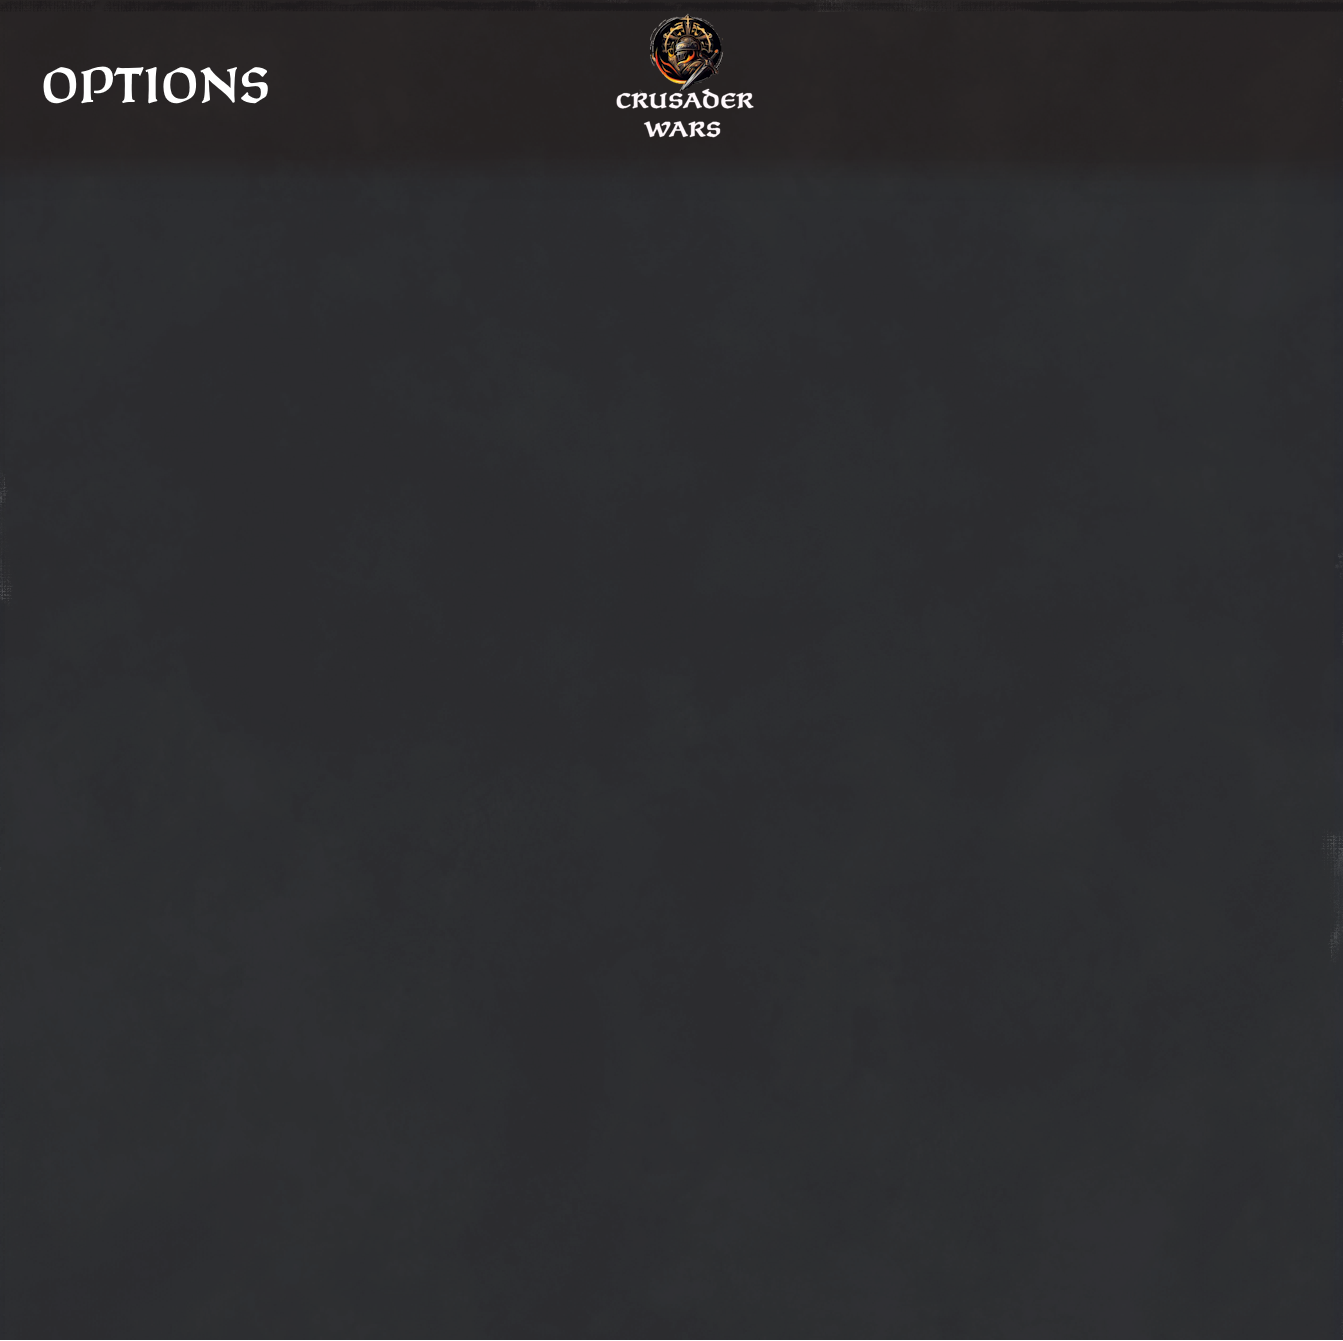
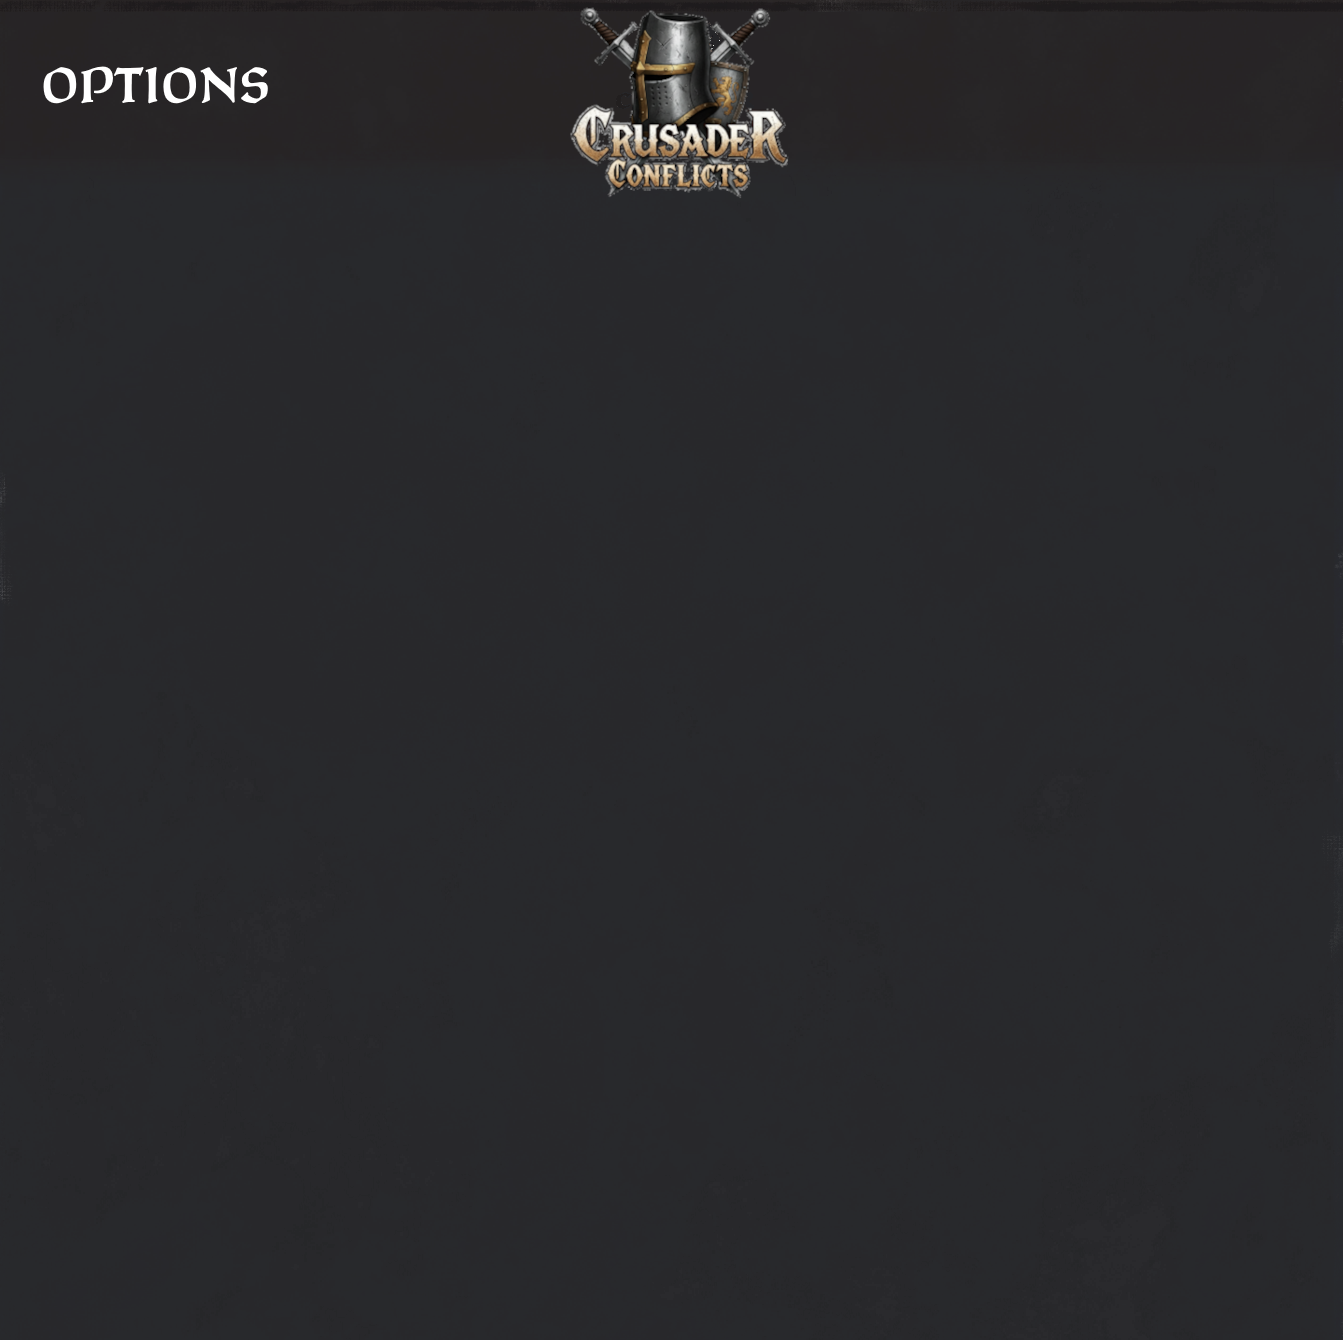
cw=30: rebranded some things to crusader conflicts

Changed region(s): [[0.4274, 0.0, 0.58, 0.1529]]

diff --git a/CrusaderWars/client/Options/Options.cs b/CrusaderWars/client/Options/Options.cs
@@ -303,7 +303,7 @@ namespace CrusaderWars
             catch (Exception ex)
             {
                 Program.Logger.Log(ex);
-                MessageBox.Show("Error reading game options. Restart the mod and try again", "Crusader Wars: Data Error",
+                MessageBox.Show("Error reading game options. Restart the mod and try again", "Conflicts Conflicts: Data Error",
                                 MessageBoxButtons.OK, MessageBoxIcon.Error, MessageBoxDefaultButton.Button1, MessageBoxOptions.DefaultDesktopOnly);
                 Application.Exit();
             }
@@ -455,7 +455,7 @@ namespace CrusaderWars
             catch (Exception ex)
             {
                 Program.Logger.Log(ex);
-                MessageBox.Show("Error setting options UI. Some options may not display correctly.", "Crusader Wars: UI Error",
+                MessageBox.Show("Error setting options UI. Some options may not display correctly.", "Conflicts Conflicts: UI Error",
                                 MessageBoxButtons.OK, MessageBoxIcon.Error, MessageBoxDefaultButton.Button1, MessageBoxOptions.DefaultDesktopOnly);
             }
         }
@@ -576,7 +576,7 @@ namespace CrusaderWars
             catch (Exception ex)
             {
                 Program.Logger.Log(ex);
-                MessageBox.Show("Error saving game options. Changes may not be saved.", "Crusader Wars: Save Error",
+                MessageBox.Show("Error saving game options. Changes may not be saved.", "Conflicts Conflicts: Save Error",
                                 MessageBoxButtons.OK, MessageBoxIcon.Error, MessageBoxDefaultButton.Button1, MessageBoxOptions.DefaultDesktopOnly);
             }
         }
@@ -689,7 +689,7 @@ namespace CrusaderWars
             }
             catch 
             {
-                MessageBox.Show("Error setting game paths. Restart the mod and try again", "Crusader Wars: Data Error",
+                MessageBox.Show("Error setting game paths. Restart the mod and try again", "Conflicts Conflicts: Data Error",
                                 MessageBoxButtons.OK, MessageBoxIcon.Error, MessageBoxDefaultButton.Button1, MessageBoxOptions.DefaultDesktopOnly);
                 Application.Exit();
             }
@@ -722,7 +722,7 @@ namespace CrusaderWars
             }
             catch 
             {
-                MessageBox.Show("Error reading game paths. Restart the mod and try again", "Crusader Wars: Data Error",
+                MessageBox.Show("Error reading game paths. Restart the mod and try again", "Conflicts Conflicts: Data Error",
                                 MessageBoxButtons.OK, MessageBoxIcon.Error, MessageBoxDefaultButton.Button1, MessageBoxOptions.DefaultDesktopOnly);
                 Application.Exit();
             }
@@ -934,7 +934,7 @@ namespace CrusaderWars
                             }
                             else
                             {
-                                MessageBox.Show($"Mods.xml was not found in {mapper}", "Crusader Wars: Crusader Wars: Unit Mappers Error",
+                                MessageBox.Show($"Mods.xml was not found in {mapper}", "Conflicts Conflicts: Conflicts Conflicts: Unit Mappers Error",
                                 MessageBoxButtons.OK, MessageBoxIcon.Error, MessageBoxDefaultButton.Button1, MessageBoxOptions.DefaultDesktopOnly);
                             }
                             break;
@@ -1064,7 +1064,7 @@ namespace CrusaderWars
                     }
                     errorMessage += "\nPlease adjust the values in the 'Cmdr/Knights' tab.";
 
-                    MessageBox.Show(errorMessage, "Crusader Wars: Configuration Error",
+                    MessageBox.Show(errorMessage, "Conflicts Conflicts: Configuration Error",
                                     MessageBoxButtons.OK, MessageBoxIcon.Error);
 
                     // Switch to the Cmdr/Knights tab to show the user where the error is

diff --git a/CrusaderWars/data/attila_settings/AttilaPreferences.cs b/CrusaderWars/data/attila_settings/AttilaPreferences.cs
@@ -20,11 +20,11 @@ namespace CrusaderWars.data.attila_settings
                 if (!string.IsNullOrWhiteSpace(content))
                 {
                     string errorMessage = "Potential Mod Conflict Detected!\n\n" +
-                                          "The file 'user.script.txt' contains custom scripts that may conflict with Crusader Wars.\n\n" +
+                                          "The file 'user.script.txt' contains custom scripts that may conflict with Crusader Conflicts.\n\n" +
                                           "This can cause issues when launching a battle. It is recommended to clear this file before starting a battle.\n\n" +
-                                          "Note: Crusader Wars has its own built-in mod manager for handling Attila mods.\n\n" +
+                                          "Note: Crusader Conflicts has its own built-in mod manager for handling Attila mods.\n\n" +
                                           $"Path: {user_script_path}";
-                    MessageBox.Show(errorMessage, "Crusader Wars: User Script Mod Conflict", MessageBoxButtons.OK, MessageBoxIcon.Warning);
+                    MessageBox.Show(errorMessage, "Conflicts Conflicts: User Script Mod Conflict", MessageBoxButtons.OK, MessageBoxIcon.Warning);
                     Program.Logger.Debug($"User script file mod conflict detected at {user_script_path} on startup.");
                 }
             }
@@ -39,13 +39,13 @@ namespace CrusaderWars.data.attila_settings
                     if (!string.IsNullOrWhiteSpace(content))
                     {
                         string errorMessage = "Potential Mod Conflict Detected!\n\n" +
-                                              "The file 'user.script.txt' must be empty to launch Attila with Crusader Wars.\n\n" +
+                                              "The file 'user.script.txt' must be empty to launch Attila with Crusader Conflicts.\n\n" +
                                               "Please clear the contents of this file, then click 'Retry' to continue.\n\n" +
                                               "Click 'Cancel' to abort the launch.\n\n" +
-                                              "Note: Crusader Wars has its own built-in mod manager. If you use an external one, save your profile first.\n\n" +
+                                              "Note: Crusader Conflicts has its own built-in mod manager. If you use an external one, save your profile first.\n\n" +
                                               $"Path: {user_script_path}";
 
-                        DialogResult result = MessageBox.Show(errorMessage, "Crusader Wars: Action Required", MessageBoxButtons.RetryCancel, MessageBoxIcon.Warning);
+                        DialogResult result = MessageBox.Show(errorMessage, "Conflicts Conflicts: Action Required", MessageBoxButtons.RetryCancel, MessageBoxIcon.Warning);
 
                         if (result == DialogResult.Cancel)
                         {

diff --git a/CrusaderWars/mod_manager/UC_UnitMapper.cs b/CrusaderWars/mod_manager/UC_UnitMapper.cs
@@ -81,7 +81,7 @@ namespace CrusaderWars.mod_manager
                 foreach (var mod in notFoundMods)
                     missingMods += $"{mod}\n";
 
-                MessageBox.Show($"You are missing these mods:\n{missingMods}", "Crusader Wars: Missing Mods!",
+                MessageBox.Show($"You are missing these mods:\n{missingMods}", "Conflicts Conflicts: Missing Mods!",
                 MessageBoxButtons.OK, MessageBoxIcon.Information, MessageBoxDefaultButton.Button1, MessageBoxOptions.DefaultDesktopOnly);
                 uC_Toggle1.SetState(false);
             }
@@ -110,13 +110,13 @@ namespace CrusaderWars.mod_manager
                     foreach (var mod in notFoundMods)
                         missingMods += $"{mod}\n";
 
-                    MessageBox.Show($"You are missing these mods:\n{missingMods}", "Crusader Wars: Missing Mods!",
+                    MessageBox.Show($"You are missing these mods:\n{missingMods}", "Conflicts Conflicts: Missing Mods!",
                     MessageBoxButtons.OK, MessageBoxIcon.Information, MessageBoxDefaultButton.Button1, MessageBoxOptions.DefaultDesktopOnly);
                     uC_Toggle1.SetState(false);
                 }
                 else if (notFoundMods.Count == 0) // all installed
                 {
-                    MessageBox.Show("All mods are installed, you are good to go!", "Crusader Wars: All mods installed!",
+                    MessageBox.Show("All mods are installed, you are good to go!", "Conflicts Conflicts: All mods installed!",
                     MessageBoxButtons.OK, MessageBoxIcon.Information, MessageBoxDefaultButton.Button1, MessageBoxOptions.DefaultDesktopOnly);
                 }
             }
@@ -151,7 +151,7 @@ namespace CrusaderWars.mod_manager
             }
             else
             {
-                MessageBox.Show("Error reading Attila data folder. This is caused by wrong Attila path.", "Crusader Wars: Game Paths Error",
+                MessageBox.Show("Error reading Attila data folder. This is caused by wrong Attila path.", "Conflicts Conflicts: Game Paths Error",
                 MessageBoxButtons.OK, MessageBoxIcon.Error, MessageBoxDefaultButton.Button1, MessageBoxOptions.DefaultDesktopOnly);
             }
 

diff --git a/CrusaderWars/unit_mapper/UnitMappers_BETA.cs b/CrusaderWars/unit_mapper/UnitMappers_BETA.cs
@@ -115,7 +115,7 @@ namespace CrusaderWars.unit_mapper
             }
             catch
             {
-                MessageBox.Show($"Error reading {GetLoadedUnitMapperName()} terrains file!", "Crusader Wars: Unit Mapper Error",
+                MessageBox.Show($"Error reading {GetLoadedUnitMapperName()} terrains file!", "Conflicts Conflicts: Unit Mapper Error",
                 MessageBoxButtons.OK, MessageBoxIcon.Error, MessageBoxDefaultButton.Button1, MessageBoxOptions.DefaultDesktopOnly);
             }
 
@@ -196,7 +196,7 @@ namespace CrusaderWars.unit_mapper
                                         }
                                         else
                                         {
-                                            MessageBox.Show($"Mods.xml was not found in {mapper}", "Crusader Wars: Unit Mappers Error",
+                                            MessageBox.Show($"Mods.xml was not found in {mapper}", "Conflicts Conflicts: Unit Mappers Error",
                                             MessageBoxButtons.OK, MessageBoxIcon.Error, MessageBoxDefaultButton.Button1, MessageBoxOptions.DefaultDesktopOnly);
                                         }
                                     }
@@ -208,7 +208,7 @@ namespace CrusaderWars.unit_mapper
                             }
                             else
                             {
-                                MessageBox.Show($"Time Period.xml was not found in {mapper}", "Crusader Wars: Unit Mappers Error",
+                                MessageBox.Show($"Time Period.xml was not found in {mapper}", "Conflicts Conflicts: Unit Mappers Error",
                                 MessageBoxButtons.OK, MessageBoxIcon.Error, MessageBoxDefaultButton.Button1, MessageBoxOptions.DefaultDesktopOnly);
                             }
                             break;

diff --git a/CrusaderWars/Properties/Resources.Designer.cs b/CrusaderWars/Properties/Resources.Designer.cs
@@ -152,6 +152,16 @@ namespace CrusaderWars.Properties {
         /// <summary>
         ///   Looks up a localized resource of type System.Drawing.Bitmap.
         /// </summary>
+        internal static System.Drawing.Bitmap crusader_conflicts_logo {
+            get {
+                object obj = ResourceManager.GetObject("crusader_conflicts_logo", resourceCulture);
+                return ((System.Drawing.Bitmap)(obj));
+            }
+        }
+        
+        /// <summary>
+        ///   Looks up a localized resource of type System.Drawing.Bitmap.
+        /// </summary>
         internal static System.Drawing.Bitmap discord {
             get {
                 object obj = ResourceManager.GetObject("discord", resourceCulture);
@@ -415,16 +425,6 @@ namespace CrusaderWars.Properties {
         internal static System.Drawing.Bitmap searchModsIcon {
             get {
                 object obj = ResourceManager.GetObject("searchModsIcon", resourceCulture);
-                return ((System.Drawing.Bitmap)(obj));
-            }
-        }
-        
-        /// <summary>
-        ///   Looks up a localized resource of type System.Drawing.Bitmap.
-        /// </summary>
-        internal static System.Drawing.Bitmap sem_nome {
-            get {
-                object obj = ResourceManager.GetObject("sem_nome", resourceCulture);
                 return ((System.Drawing.Bitmap)(obj));
             }
         }

diff --git a/CrusaderWars/Program.cs b/CrusaderWars/Program.cs
@@ -34,7 +34,7 @@ namespace CrusaderWars
         {
             // Handle the exception
             Logger.Debug($"Global thread exception caught: {e.Exception.Message}");
-            MessageBox.Show("An unexpected error occurred. Please try again.", "Crusader Wars: Error", MessageBoxButtons.OK, MessageBoxIcon.Error);
+            MessageBox.Show("An unexpected error occurred. Please try again.", "Crusader Conflicts: Error", MessageBoxButtons.OK, MessageBoxIcon.Error);
             // Log the exception for troubleshooting
             Logger.Log(e.Exception);
         }
@@ -43,7 +43,7 @@ namespace CrusaderWars
         {
             // Handle the exception
             Logger.Debug($"Unhandled domain exception caught: {((Exception)e.ExceptionObject).Message}");
-            MessageBox.Show("An unexpected error occurred. Please try again.", "Crusader Wars: Error", MessageBoxButtons.OK, MessageBoxIcon.Error);
+            MessageBox.Show("An unexpected error occurred. Please try again.", "Crusader Conflicts: Error", MessageBoxButtons.OK, MessageBoxIcon.Error);
             // Log the exception for troubleshooting
             Logger.Log((Exception)e.ExceptionObject);
         }

diff --git a/CrusaderWars/client/BETAUPDATE_Message.cs b/CrusaderWars/client/BETAUPDATE_Message.cs
@@ -41,7 +41,7 @@ namespace CrusaderWars.client.BETAUPDATE_Message
             //Offline
             catch 
             {
-                MessageBox.Show("No Internet connection. Your ck3 mod version is for the new beta release, if you don't download the new the CW launcher from the website it may cause crashes!", "Crusader Wars: Error",
+                MessageBox.Show("No Internet connection. Your ck3 mod version is for the new beta release, if you don't download the new the CW launcher from the website it may cause crashes!", "Crusader Conflicts: Error",
                 MessageBoxButtons.OK, MessageBoxIcon.Error, MessageBoxDefaultButton.Button1, MessageBoxOptions.DefaultDesktopOnly);
                 this.Close();
             }

diff --git a/CrusaderWars/twbattle/BattleFile.cs b/CrusaderWars/twbattle/BattleFile.cs
@@ -163,7 +163,7 @@ namespace CrusaderWars
                 }
                 catch
                 {
-                    MessageBox.Show("None of your armies are present in this battle! (If this error is unexpected, confirm your \"Armies Control\" selection in the mod settings)", "Crusader Wars: No Player Army",
+                    MessageBox.Show("None of your armies are present in this battle! (If this error is unexpected, confirm your \"Armies Control\" selection in the mod settings)", "Conflicts Conflicts: No Player Army",
                     MessageBoxButtons.OK, MessageBoxIcon.Error, MessageBoxDefaultButton.Button1, MessageBoxOptions.DefaultDesktopOnly);
                     throw new Exception();
                 }

diff --git a/CrusaderWars/client/MainFile.Designer.cs b/CrusaderWars/client/MainFile.Designer.cs
@@ -365,7 +365,7 @@
             this.Name = "HomePage";
             this.SizeGripStyle = System.Windows.Forms.SizeGripStyle.Show;
             this.StartPosition = System.Windows.Forms.FormStartPosition.CenterScreen;
-            this.FormClosing += new System.EventHandler(this.HomePage_FormClosing);
+            this.FormClosing += new System.Windows.Forms.FormClosingEventHandler(this.HomePage_FormClosing);
             this.Load += new System.EventHandler(this.Form1_Load);
             this.Shown += new System.EventHandler(this.HomePage_Shown);
             ((System.ComponentModel.ISupportInitialize)(this.pictureBox1)).EndInit();

diff --git a/CrusaderWars/data/battle_results/BattleResult.cs b/CrusaderWars/data/battle_results/BattleResult.cs
@@ -281,7 +281,7 @@ namespace CrusaderWars
             catch(Exception e)
             {
                 Program.Logger.Debug($"Error reading Attila results for army {army.ID}: {e.ToString()}");
-                MessageBox.Show($"Error reading Attila results: {e.ToString()}", "Crusader Wars: Battle Results Error",
+                MessageBox.Show($"Error reading Attila results: {e.ToString()}", "Conflicts Conflicts: Battle Results Error",
                 MessageBoxButtons.OK, MessageBoxIcon.Error, MessageBoxDefaultButton.Button1, MessageBoxOptions.DefaultDesktopOnly);
                 throw new Exception();
                 

diff --git a/CrusaderWars/client/MainFile.cs b/CrusaderWars/client/MainFile.cs
@@ -1726,7 +1726,7 @@ namespace CrusaderWars
             Program.Logger.Debug("Website button clicked.");
             WebsiteBTN.BackgroundImage = Properties.Resources.website_btn_new_click;
             PlaySound(@".\data\sounds\metal-dagger-hit-185444.wav");
-            Process.Start(new ProcessStartInfo("https://www.crusaderwars.com") { UseShellExecute = true });
+            Process.Start(new ProcessStartInfo("https://github.com/szmania/Crusader-Wars/releases/") { UseShellExecute = true });
 
         }
 

diff --git a/CrusaderWars/client/LoadingScreen.Designer.cs b/CrusaderWars/client/LoadingScreen.Designer.cs
@@ -182,7 +182,7 @@
             this.Name = "LoadingScreen";
             this.ShowIcon = false;
             this.StartPosition = System.Windows.Forms.FormStartPosition.CenterScreen;
-            this.Text = "Crusader Wars";
+            this.Text = "Crusader Conflicts";
             this.TopMost = true;
             this.WindowState = System.Windows.Forms.FormWindowState.Maximized;
             this.Shown += new System.EventHandler(this.LoadingScreen_Shown);
